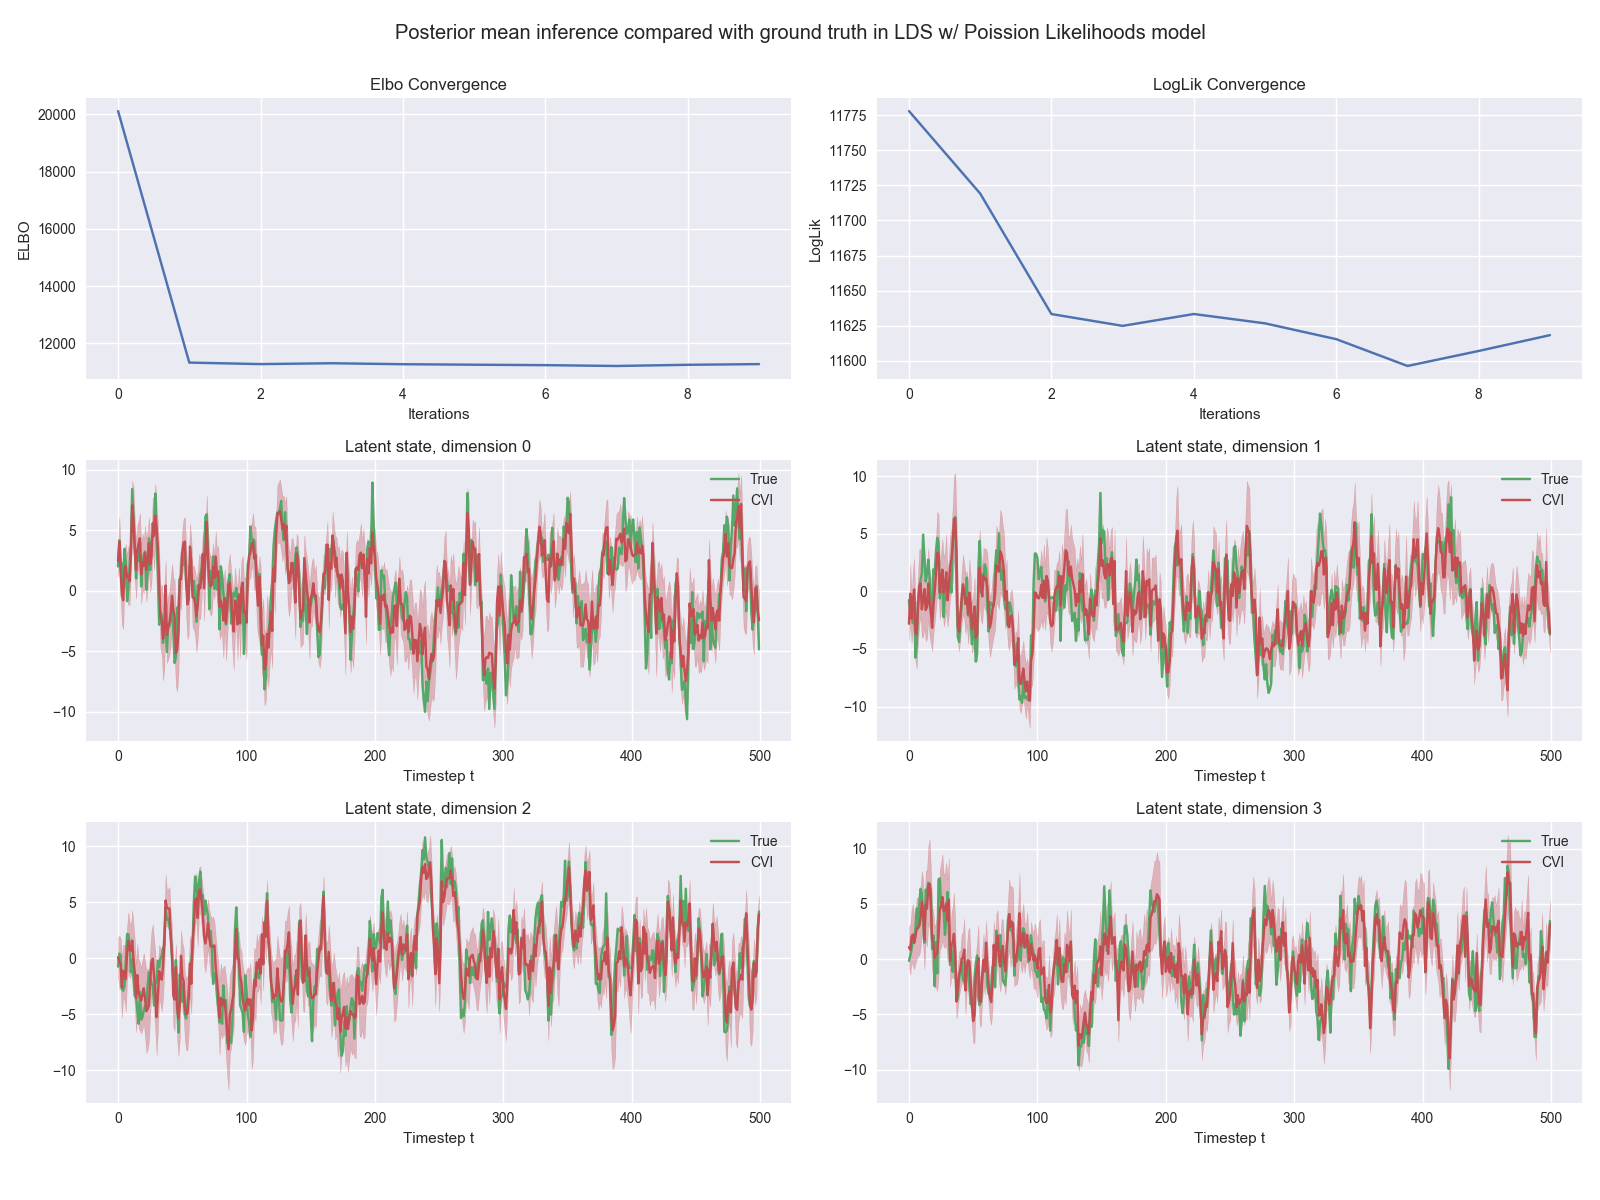
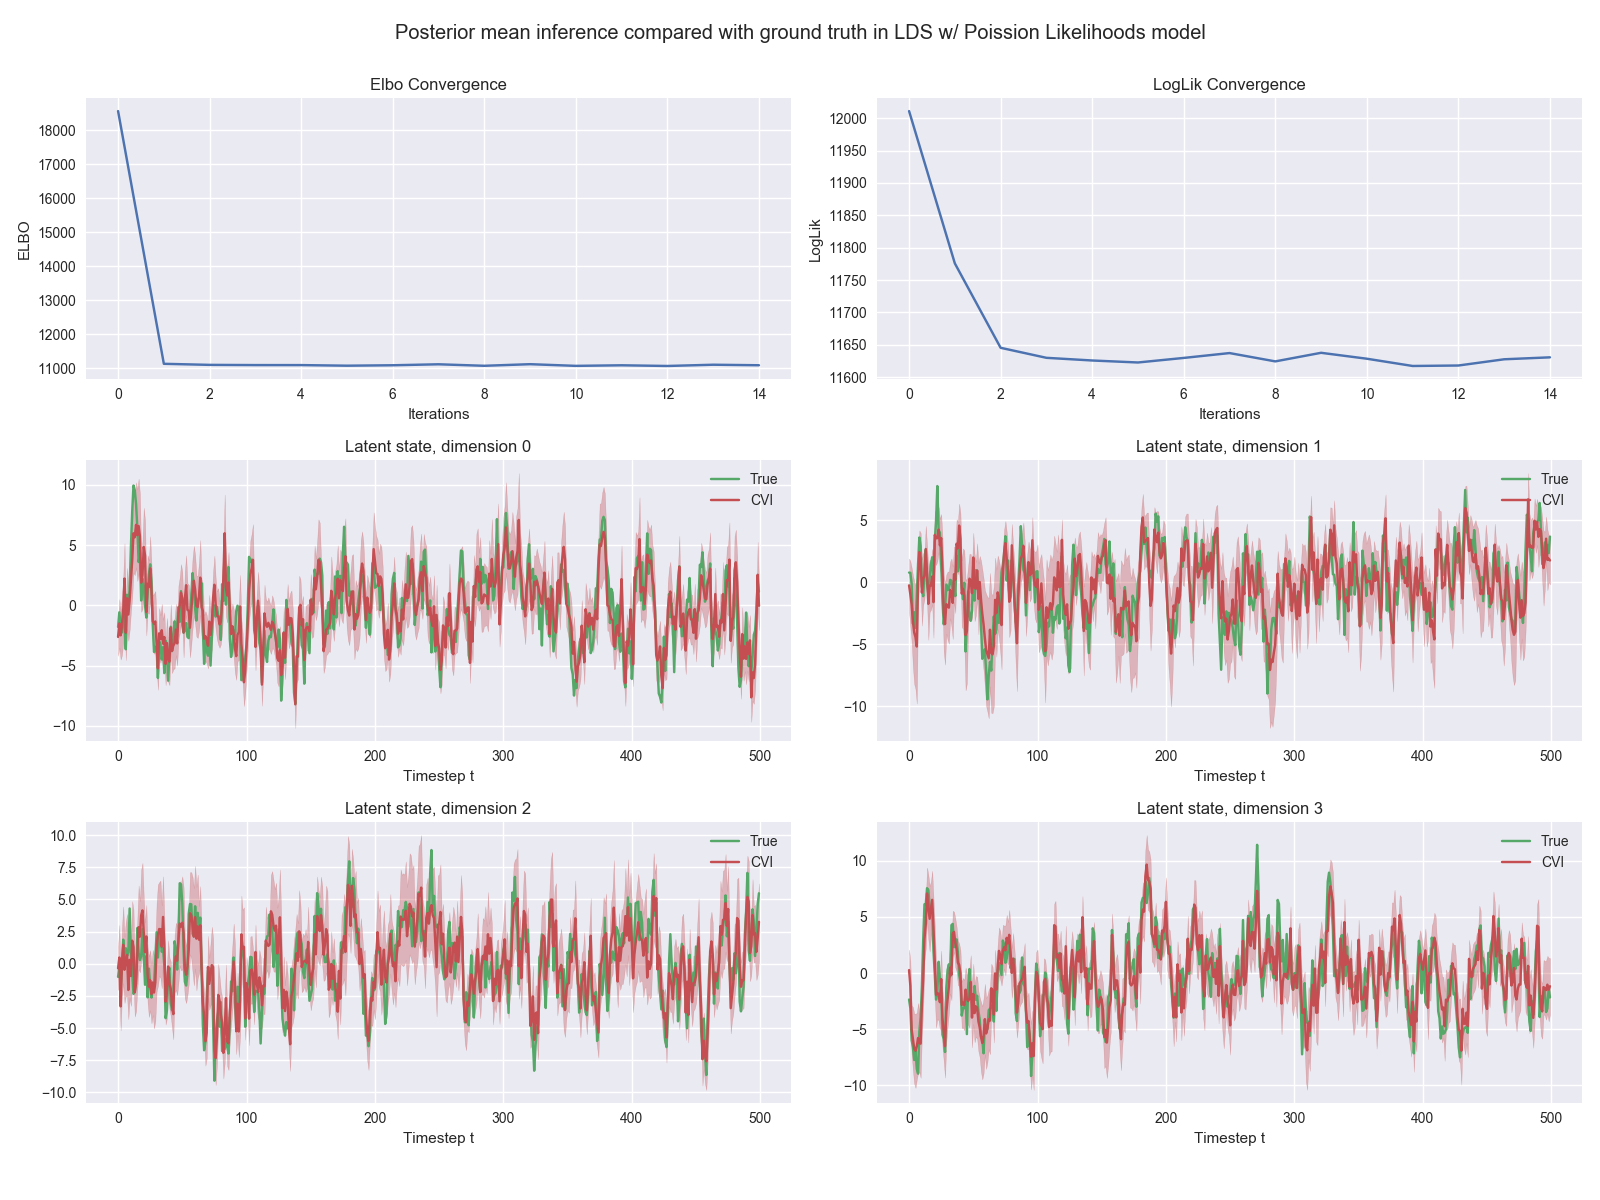
Update README.md

diff --git a/utils.py b/utils.py
@@ -9,31 +9,7 @@ class dotdict(dict):
     __setattr__ = dict.__setitem__
     __delattr__ = dict.__delitem__
 
-<<<<<<< HEAD
 
-
-||||||| merged common ancestors
-# Predict_observations helper function
-def predict_obs(x, V, H, R, cov=True):
-    T = x.shape[1]
-    os = H.shape[0]
-    pred_obs_mean = np.zeros([os, T])
-    pred_obs_covariance = np.zeros([os, os, T])
-
-    for t in range(T):
-        xt = x[:, t]
-        Vt = V[:, :, t]
-        pred_obs_mean[:, t] = np.dot(H, xt)
-        if cov:
-            pred_obs_covariance[:, :, t] = np.dot(H, np.dot(Vt, H.T)) + R
-
-    if cov:
-        return pred_obs_mean, pred_obs_covariance
-    else:
-        return pred_obs_mean
-
-=======
->>>>>>> 3e14c2679002beadf100a53f739bbb4aec9dad0b
 # Sample from MVN using cholesky
 def chol_sample(noise, mu, cov):
     # Shape of noise parameter determines how many samples are returned
@@ -53,22 +29,6 @@ def column_vec(v):
 def trace(A, B):
     return np.sum(inner1d(A, B.T))
 
-
-def check_format(y, mu, cov):
-    # Assure y_i in [1,-1]
-    y = y > 0
-    y = 2 * y - 1
-    if y.shape[1] != 1:
-        y = y.T
-
-    # MultivariateNormalFullCovariance expects batch index to be first
-    if cov.shape[1] != cov.shape[2]:
-        cov = np.swapaxes(cov, 0, 2)
-
-    if cov.shape[0] != mu.shape[0]:
-        mu = np.swapaxes(mu, 0, 1)
-
-    return y, mu, cov
 
 
 def plot_posterior(args, path='results.png'):
@@ -115,53 +75,3 @@ def plot_posterior(args, path='results.png'):
     # Save
     fig.tight_layout(rect=[0, 0.03, 1, 0.95])
     fig.savefig(path)
-<<<<<<< HEAD
-||||||| merged common ancestors
-
-
-def plot_learned_matrices(args, path="plots/learned_parameter_results.png"):
-    # Init
-    plt.close('all')
-    fig = plt.figure(figsize=(8, 16))
-
-    learned = [
-        args.A_learned,
-        args.C_learned,
-        args.Q_learned,
-        args.D_learned,
-        args.initx_learned,
-        args.initV_learned,
-    ]
-
-    true = [
-        args.A_true,
-        args.C_true,
-        args.Q_true,
-        args.D_true,
-        args.initx_true,
-        args.initV_true,
-    ]
-
-    names = [
-        "A",
-        "C",
-        "Q",
-        "D",
-        "initx",
-        "initV",
-    ]
-
-    for i, plot_idx in enumerate(range(1, 12, 2)):
-        ax = fig.add_subplot(6, 2, plot_idx)
-        ax = sns.heatmap(true[i], ax=ax)
-        ax.set_title('True {}'.format(names[i]))
-
-        ax = fig.add_subplot(6, 2, plot_idx + 1)
-        ax = sns.heatmap(learned[i], ax=ax)
-        ax.set_title('Learned {}'.format(names[i]))
-
-    fig.tight_layout()
-    fig.savefig(path)
-=======
-
->>>>>>> 3e14c2679002beadf100a53f739bbb4aec9dad0b

diff --git a/cvi_helpers.py b/cvi_helpers.py
@@ -1,5 +1,5 @@
 import numpy as np
-from utils import check_format, column_vec, chol_sample
+from utils import column_vec, chol_sample
 import tensorflow as tf
 
 # \begin{align*}
@@ -57,17 +57,17 @@ def non_conjugate_likelihood(*args):
 
     Z = tf.tensordot(C, X, axes = [[1], [0]])
 
-    rate   = tf.nn.softplus(Z) + eps
-    pdf    = tf.contrib.distributions.Poisson(rate=rate, allow_nan_stats=False)
-    logpdf = pdf.log_prob(value=Y)
+    rate     = tf.nn.softplus(Z) + eps
+    pdf      = tf.contrib.distributions.Poisson(rate=rate, allow_nan_stats=False)
+    logpdf   = pdf.log_prob(value=Y)
     feeddict = {X: mc_latent, Y: ybroad}
 
-    # Return logpdf, mean parameter, feeddict, and variables to be optimized
-    return logpdf, Z, feeddict, C
+    # Return logpdf, mean parameter, and feeddict
+    return logpdf, Z, feeddict
 
 
 def E_log_p_mc(y, mc_latent, C):
-    logpdf, mean_par, feeddict, _ = non_conjugate_likelihood(y, mc_latent, C)
+    logpdf, mean_par, feeddict = non_conjugate_likelihood(y, mc_latent, C)
 
     f   = logpdf
     df  = tf.gradients(f, mean_par)
@@ -89,24 +89,6 @@ def E_log_p_mc(y, mc_latent, C):
 
     return f, gm, gv
 
-# For M step if CVI is used in EM
-def maximize_non_conjugate(y, mc_latent, C, lr = 0.01, iters=500, verbose=True):
-    logpdf, _, feeddict, C = non_conjugate_likelihood(y, mc_latent, C)
-
-    cost = tf.reduce_sum(tf.reduce_mean(logpdf, axis=2))
-
-    optimizer = tf.train.AdamOptimizer(learning_rate=lr)  # Adam Optimizer
-    opt_op = optimizer.minimize(-cost)
-
-    with tf.Session() as sess:
-        sess.run(tf.global_variables_initializer())
-        for epoch in range(iters):
-            _, loss_val = sess.run([opt_op, cost], feeddict)
-            if verbose:
-                print "Epoch: %04d, train_loss: %04f" % (epoch + 1,loss_val)
-        Cval = C.eval()
-
-    return Cval
 
 def make_y_R_tilde(tlam_1, tlam_2):
     assert tlam_1.shape == tlam_2.shape

diff --git a/cvi.py b/cvi.py
@@ -87,10 +87,10 @@ if __name__ == '__main__':
     args.ls          = 5
     args.os          = 10
     args.T           = 500
-    args.cvi_iters   = 10
+    args.cvi_iters   = 15
     args.nSamples    = 500
     args.verbose     = False
-    args.seed        = 2
+    args.seed        = 0
 
     # Set seed
     np.random.seed(args.seed)

diff --git a/README.md b/README.md
@@ -24,7 +24,7 @@ python cvi.py
 Hyperparameters can be adjusted on lines 88 - 96. To use CVI for your own problem, write your own non-conjugate likelihood in _cvi\_helpers.non\_conjugate\_likelihood\(\)_.
 
 ## Plots
-Plots are saved in CVI_PLDS/plots (see screenshot below). ![Fig](https://github.com/vmasrani/CVI_PLDS/plots/plots.png)
+Plots are saved in CVI_PLDS/plots (see screenshot below). ![Fig](https://github.com/vmasrani/CVI_PLDS/blob/master/plots/results.png)
 
 ## Acknowledgements
 Our code uses the synthetic data code from [Black Box Variational Inference for Linear Dynamical Systems](https://github.com/earcher/vilds) by Archer et al.
